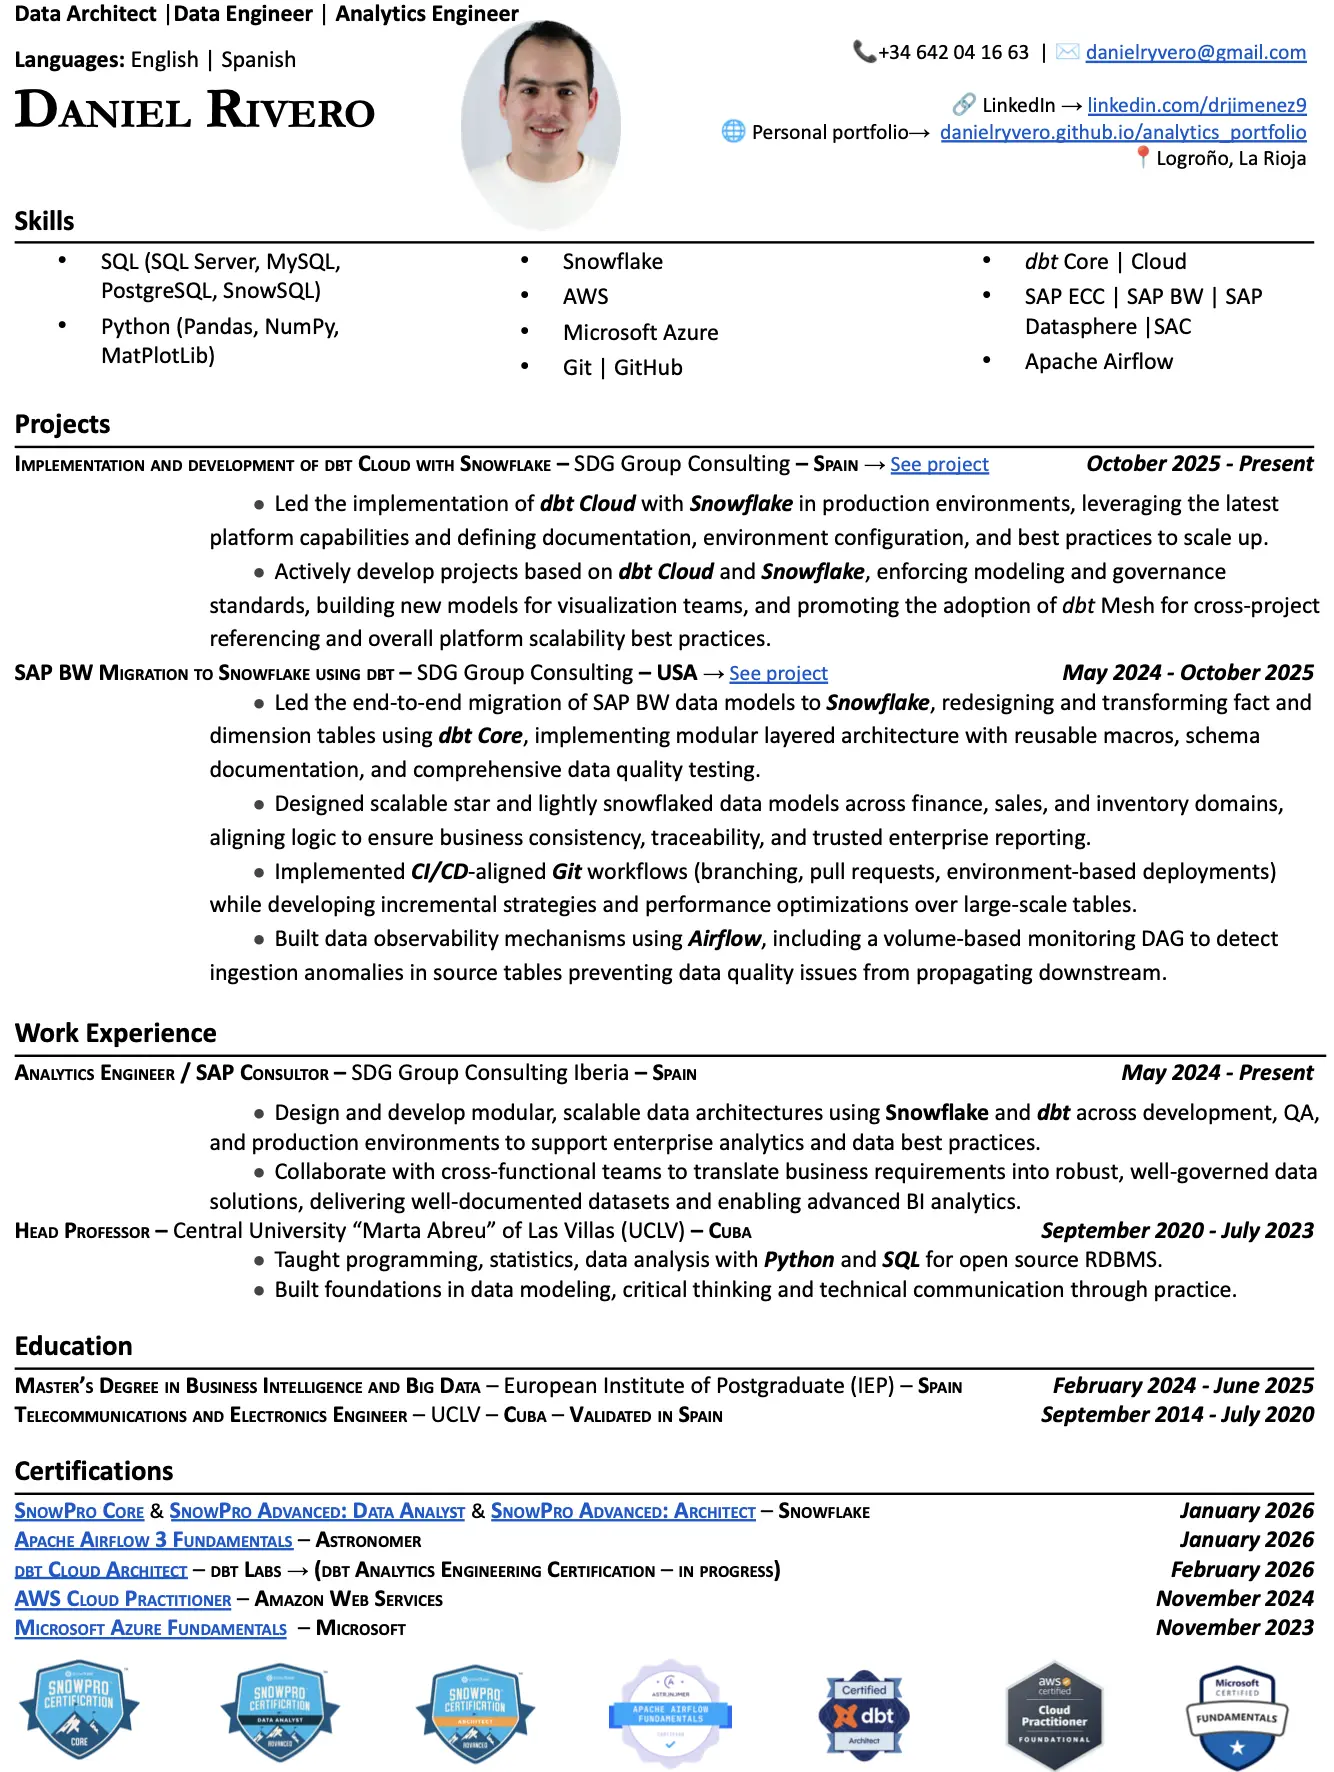
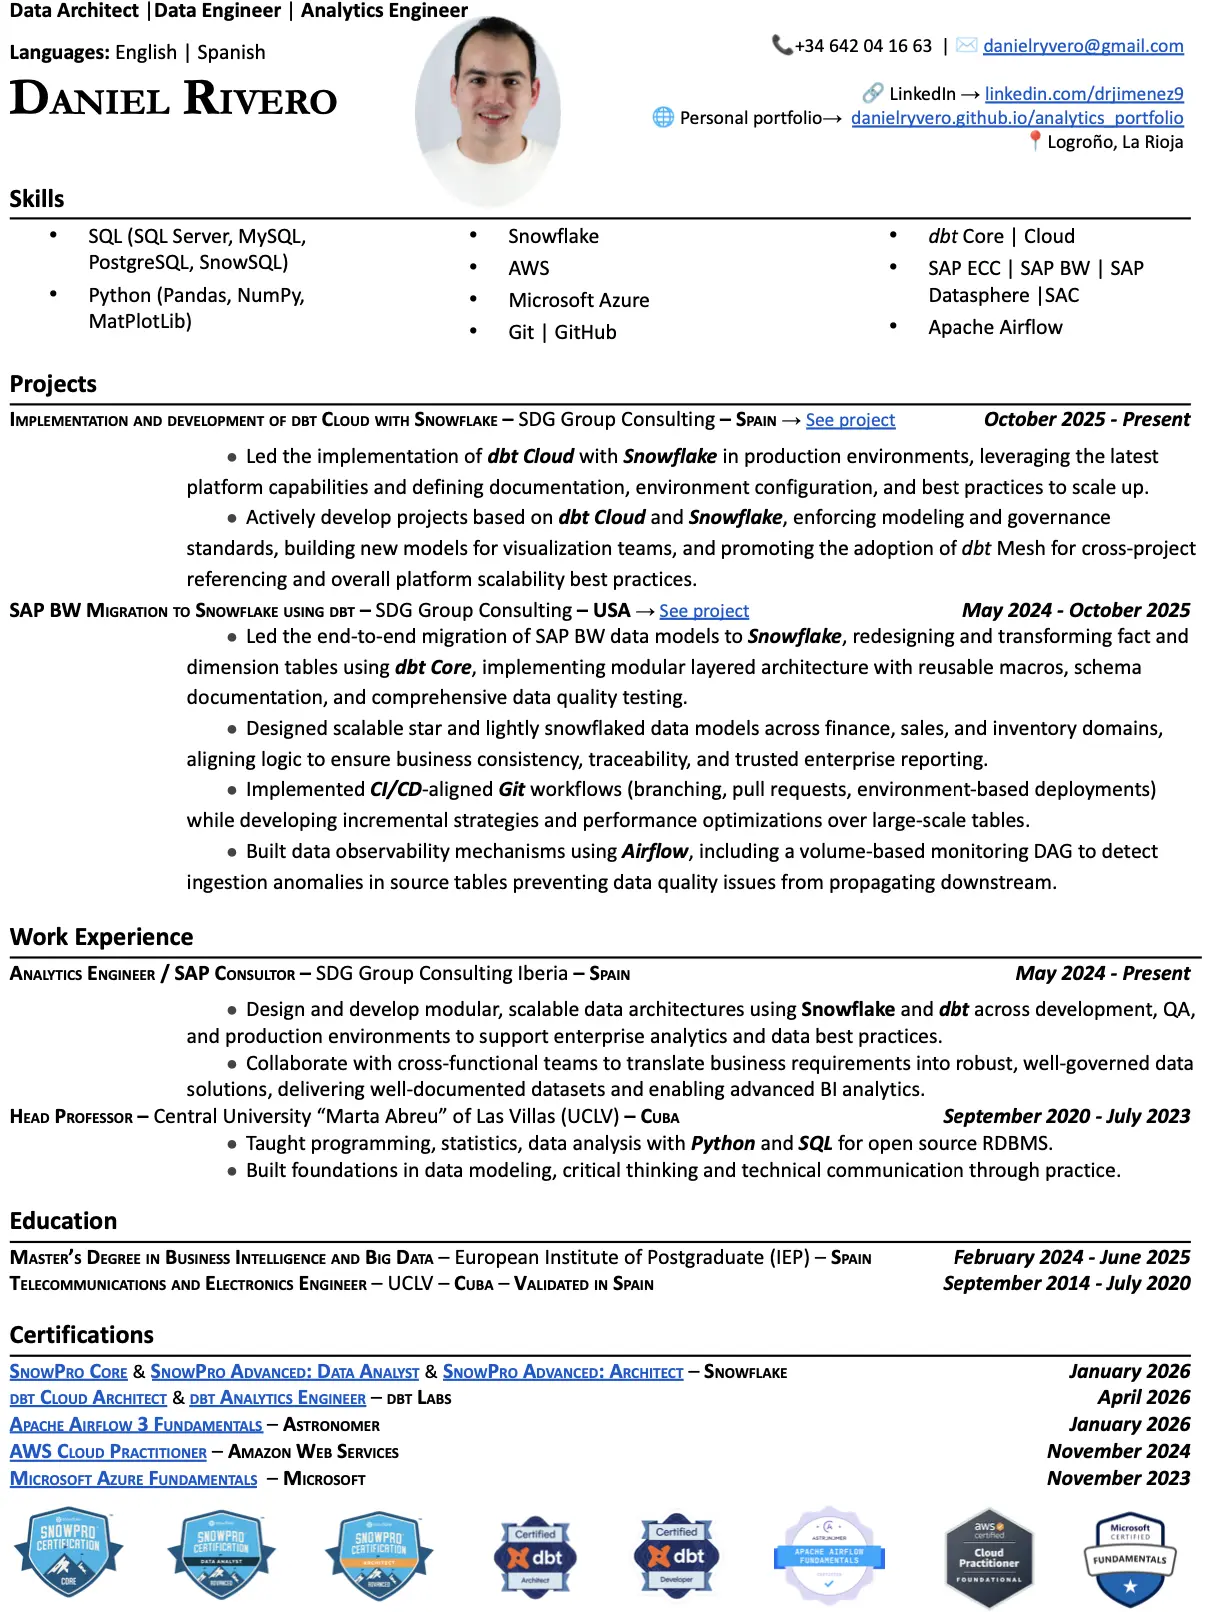
added dbt developer certification. updated CV and links

diff --git a/index.html b/index.html
@@ -53,7 +53,8 @@
 							AWS Certified <a class="border" target="_blank" href="https://www.credly.com/badges/1b6a988b-ab58-4480-9093-03b0da97cbf3/public_url">Cloud Practitioner</a>. 
 							</p>
 							<p>
-							Certified <a class="border" target="_blank" href="https://www.credential.net/16e53101-49e8-4715-a067-0a1cc5775cc0#acc.n1Q2xW3J">dbt Cloud Architect</a>.  
+							Certified <a class="border" target="_blank" href="https://www.credential.net/16e53101-49e8-4715-a067-0a1cc5775cc0#acc.n1Q2xW3J">dbt Cloud Architect</a>
+							& <a class="border" target="_blank" href="https://credentials.getdbt.com/45e99ec6-7f07-46be-a971-59a3cff68a94#acc.K6P5lTGX">Analytics Engineer</a>.  
 							</p>	
 						<ul class="actions">
 							<li><a href="#header" class="button icon solid solo fa-arrow-down scrolly">Continue</a></li>
@@ -333,8 +334,8 @@
 		
 											<p>Curriculum Vitae</p>
 										<ul class="actions special">											
-											<li><a target="_blank" href="https://drive.google.com/file/d/1eO2A1Z8Tj4rfeV60RvLO32WB19OEIyZF/view?usp=sharing" class="button large icon solid fa-download">Download in Spanish</a></li>
-											<li><a target="_blank" href="https://drive.google.com/file/d/1C_ABUp-8A2nrKNfd6GXu9O1V1976B7hh/view?usp=sharing" class="button large icon solid fa-download">Download in English</a></li>
+											<li><a target="_blank" href="https://drive.google.com/file/d/1Bw8zsWStujtemJToF_e8k1Sy37LJX-3-/view?usp=sharing" class="button large icon solid fa-download">Download in Spanish</a></li>
+											<li><a target="_blank" href="https://drive.google.com/file/d/1_9dn5uDsGNTWs1A4n3f87_IBlZnt20x9/view?usp=sharing" class="button large icon solid fa-download">Download in English</a></li>
 										</ul>
 										</header>
 										<div class="image main"><img src="images/2026_cv.webp" alt="CV" /></div>
@@ -356,7 +357,7 @@
 													<div class="col-13"><span class="image mine"><img src="images/snowpro_advanced_data_analyst.webp" alt="" /></span></div>	
 													<div class="col-13"><span class="image mine"><img src="images/snowpro_core.webp" alt="" /></span></div>			
 													<div class="col-13"><span class="image mine"><img src="images/dbt_cloud_architect.webp" alt="" /></span></div>	
-													<div class="col-13"><span class="image mine"><img src="images/fusion_migration_accreditation.webp" alt="" /></span></div>	
+													<div class="col-13"><span class="image mine"><img src="images/dbt_developer.webp" alt="" /></span></div>	
 													<div class="col-13"><span class="image mine"><img src="images/apache_airflow3_fundamentals.webp" alt="" /></span></div>
 													<div class="col-13"><span class="image mine"><img src="images/azure_certified_fundamentals.webp" alt="" /></span></div>
 													<div class="col-13"><span class="image mine"><img src="images/aws_cloud_practitioner.webp" alt="" /></span></div>	
@@ -375,7 +376,7 @@
 											</ul>
 											<ul class="actions">
 												<li><a target="_blank" href="https://www.credential.net/16e53101-49e8-4715-a067-0a1cc5775cc0#acc.tXOPYEvG" class="button large">dbt Cloud Architect</a></li>
-												<li><a target="_blank" href="https://www.credential.net/155757c1-0a60-40bf-8b4f-ce8286e46b92#acc.StUvVk2H" class="button large">dbt Advocate Accreditation</a></li>
+												<li><a target="_blank" href="https://credentials.getdbt.com/45e99ec6-7f07-46be-a971-59a3cff68a94#acc.K6P5lTGX" class="button large">dbt Analytics Engineer</a></li>
 												<li><a target="_blank" href="https://credentials.getdbt.com/e1e1b903-a4a1-479a-9147-6b6de712629f#acc.nVRFCv4A" class="button large">dbt Fusion Migration Accreditation</a></li>
 											</ul>											
 										<!-- Blockquote -->
